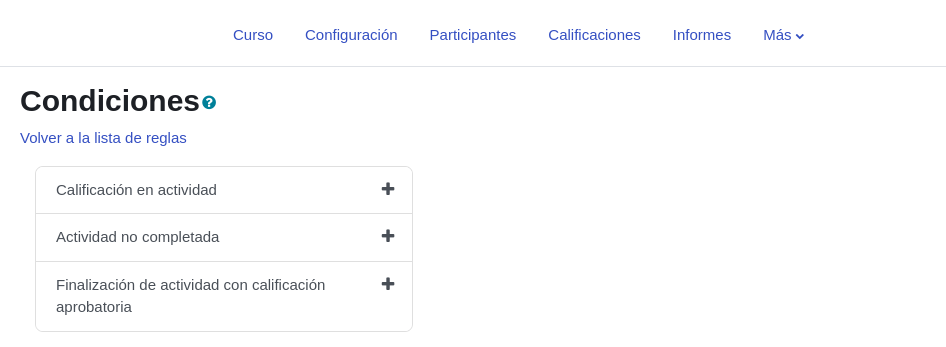
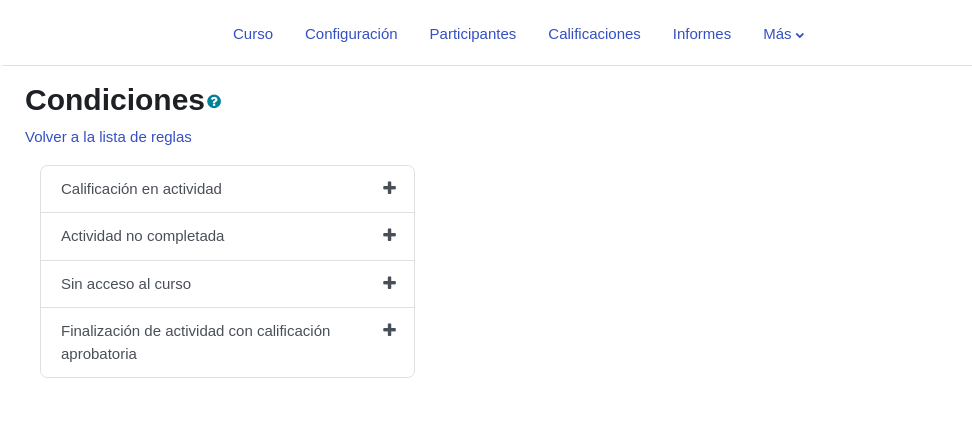
docs: add documentation for 'no_course_access_task' condition

diff --git a/README.md b/README.md
@@ -153,6 +153,25 @@ Esta condición se utiliza para evaluar si un usuario no ha completado una activ
     ![Expected completion date](__docs/images/expected-completion-date.png)
 
 
+### Sin acceso al curso
+
+#### Descripción
+
+Esta condición se utiliza para evaluar que usuarios no han accedido a un curso dentro de un período de tiempo determinado.
+
+Esta condición se ejecuta de forma recurrente mediante la tarea programada `local_coursedynamicrules\task\no_course_access_task` que por defecto se ejecuta cada minuto. 
+
+Una vez que se agrega la condición a una regla, se empezará a evaluar a los usuarios que cumplan con la condición y se ejecutarán las acciones asociadas a la regla.
+
+La condición se volverá a evaluar cada vez que haya pasado el periodo tiempo especificado en la configuración de la condición los cuales se detallan en la siguiente sección [Configuración de la condición](#configuración-de-la-condición-2).
+
+#### Configuración de la condición
+
+1. **Periodo**:
+   Definimos el periodo de tiempo en el que esperamos que los usuarios hayan accedido al curso en el primer campo ingresamos el valor y en el segundo seleccionamos la unidad de tiempo.
+
+    ![Time period](__docs/images/time-period.png)
+
 ### Finalización de actividad con calificación aprobatoria
 
 #### Descripción
